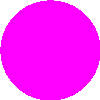
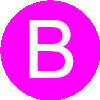
groundwork for tower spawing (broken)

Changed region(s): [[0.27, 0.18, 0.75, 0.78]]

diff --git a/src/game.py b/src/game.py
@@ -70,7 +70,6 @@ class Enemy(pygame.sprite.Sprite):
         self.isArmored = False
         self.speed = 5
         self.damage = 1
-        self.color = (255, 0, 0)
       
         # draws a rectangle over the image, used for collision detection
         self.rect = self.image.get_rect(center=self.position)
@@ -82,7 +81,6 @@ class Enemy(pygame.sprite.Sprite):
         self.isArmored = True
         self.speed = 5
         self.damage = 1
-        self.color = (0, 0, 255)
 
         self.rect = self.image.get_rect(center=self.position)
 
@@ -93,7 +91,6 @@ class Enemy(pygame.sprite.Sprite):
         self.isArmored = False
         self.speed = 5
         self.damage = 1
-        self.color = (0, 255, 0)
 
         self.rect = self.image.get_rect(center=self.position)
 
@@ -104,7 +101,6 @@ class Enemy(pygame.sprite.Sprite):
         self.isArmored = True
         self.speed = 5
         self.damage = 2
-        self.color = (255, 255, 0)
 
         self.rect = self.image.get_rect(center=self.position)
 
@@ -133,7 +129,7 @@ class Enemy(pygame.sprite.Sprite):
     def killEnemy(self):
         # removes the enemy from all groups, preventing it from being drawn
         self.kill()
-        print(self.type, "killed")
+        print("Enemy", self.type, "killed")
 
     def move(self):
         # moves the enemy along a predefined path
@@ -161,7 +157,123 @@ class Enemy(pygame.sprite.Sprite):
                 self.waypointsIndex = 0
                 self.killEnemy()
                 print(self.type, "reached final waypoint, commencing purge")
-            
+
+class Tower(pygame.sprite.Sprite):
+    def __init__(self, screen, position, type, isBuildmode):
+        # calls constructor of parent class
+        pygame.sprite.Sprite.__init__(self)
+
+        print("constructor called")
+
+        # initializes screen, position and type
+        self.screen = screen
+        self.position = position
+        self.type = type
+
+        # loads the image, scales it to 50x50, makes alpha channel transparent
+        self.imgPath = os.getcwd() + "/assets/" + type + ".png"
+        img = pygame.image.load(self.imgPath).convert_alpha()
+        img = pygame.transform.scale(img, (100, 100))
+        self.image = img
+
+        if isBuildmode:
+            self.buildMode()
+        else:
+            # determines which tower to spawn based on the type given
+            self.determineType()
+
+    def spawnMgTower(self):
+        self.damage = 1
+        self.range = 100
+        self.fireRate = 10
+
+        self.rect = self.image.get_rect(center=self.position)
+
+        print("MG tower spawned")
+    
+    def spawnSniperTower(self):
+        self.damage = 2
+        self.range = 200
+        self.fireRate = 2
+
+        self.rect = self.image.get_rect(center=self.position)
+
+        print("Sniper tower spawned")
+
+    def spawnFlamerTower(self):
+        self.damage = 0.5
+        self.range = 50
+        self.fireRate = 10
+
+        self.rect = self.image.get_rect(center=self.position)
+
+
+        print("Flamer tower spawned")
+
+    #TBD
+    #def spawnBarracksTower(self):
+    #    self.damage = 1
+    #    self.range = 100
+    #    self.color = (255, 255, 0)
+    #    self.spawnRate = 1
+    #    print("Barracks tower spawned")
+
+    #TBD
+    #def spawnBankTower(self):
+    
+    def determineType(self):    
+        if self.type == "mg":
+            print("1")
+            self.spawnMgTower()
+        elif self.type == "sniper":
+            print("2")
+            self.spawnSniperTower()
+        elif self.type == "flamer":
+            print("3")
+            self.spawnFlamerTower()
+        #elif self.type == "barracks":
+        #    print("4")
+        #    self.spawnBarracksTower()
+        #elif self.type == "bank":
+        #    print("5")
+        #    self.spawnBankTower()
+        else:
+            print("Invalid tower type")
+
+        groupTowers.add(self)
+        groupSprites.add(self)
+    
+    def moveTower(self):
+
+        print(pygame.mouse.get_pos())
+
+    #def buildMode(self):
+    #    # draws a blueprint of the tower
+    #    print("buildmode")
+#
+    #    isBuilding = True
+#
+    #    while isBuilding:
+    #        self.rect = self.image.get_rect(center=self.position)
+#
+    #        #groupTowers.draw(self.screen)
+#
+    #        for event in pygame.event.get():
+    #            if event.type == pygame.MOUSEMOTION:
+    #                self.rect.move_ip(event.rel)
+    #                groupTowers.draw(self.screen)
+    #            elif event.type == pygame.MOUSEBUTTONDOWN:
+    #                isBuilding = False
+    #                self.determineType()
+                    
+    def drawTower(self):
+        # draws the tower continuously on screen
+        #for tower in groupTowers:
+        groupTowers.draw(self.screen)
+
+    def kill(self) -> None:
+        self.kill()
+        print("Tower", self.type, "killed")
 
 # initialize pygame
 pygame.init()
@@ -179,6 +291,9 @@ groupEnemies = pygame.sprite.Group()
 # all Sprites should be added to this group
 groupSprites = pygame.sprite.Group()
 
+# all towers should be added to this group
+groupTowers = pygame.sprite.Group()
+
 def main():
 
     # deactivates console by default
@@ -188,15 +303,8 @@ def main():
     screen = pygame.display.set_mode((1200, 800)) # create a window 
     
     #TODO determine current wave, pass it to the spawnEnemy function
-    #enemySpawner.main(1, screen)
 
-    spawnEnemy(screen)
-
-    #for i in range(0, 10):
-#
-    #    pos = (100+(i*50), 100)
-#
-    #    Enemy(screen, pos, "light")
+    #spawnEnemy(screen)
 
     # main loop 
     while True:
@@ -220,6 +328,9 @@ def main():
                 for enemy in groupEnemies:
                     if enemy.rect.collidepoint(event.pos):
                         enemy.killEnemy()
+            elif event.type == pygame.MOUSEMOTION:
+                pass
+
             
             # check if a key has been pressed
             if event.type == pygame.KEYDOWN:
@@ -233,15 +344,22 @@ def main():
                     print("Console deactivated, press C to show")
                 elif event.key == pygame.K_k:
                     print(groupEnemies.sprites())
+                elif event.key == pygame.K_b:
+                    buildTower(screen)
 
-            # print all events if flag is set
-            if consoleActive:
-                print(event)
+        # print all events if flag is set
+        if consoleActive:
+            print(event)
 
         # draw, move all enemies continuously
         for enemy in groupEnemies:
             enemy.draw()
             enemy.move()
+
+        # draw all towers continuously
+        for tower in groupTowers:
+            tower.moveTower()
+            tower.drawTower()
             
         # update the screen continuously    
         pygame.display.update()
@@ -291,6 +409,19 @@ def spawnEnemy(screen):
     for i in range(0, amountBoss):
         pos = (100+(i*50), 400)
         Enemy(screen, pos, typeBoss)
+
+def buildTower(screen):
+    position = pygame.mouse.get_pos()
+
+    Tower(screen, position, "mg", True)
+
+    
+            
+
+    #Tower.determineType(screen, position)
+
+    pass
+
 
 if __name__ == "__main__":
     main()

diff --git a/src/GUI.py b/src/GUI.py
@@ -4,7 +4,7 @@ import os
 path = (os.getcwd())
 
 def main(screen):
-    img = pygame.image.load(path +"/assets/mapPlaceholder.png")
+    img = pygame.image.load(path +"/assets/map.png")
     img.convert()
 
     img = pygame.transform.scale(img, (1200, 800))
